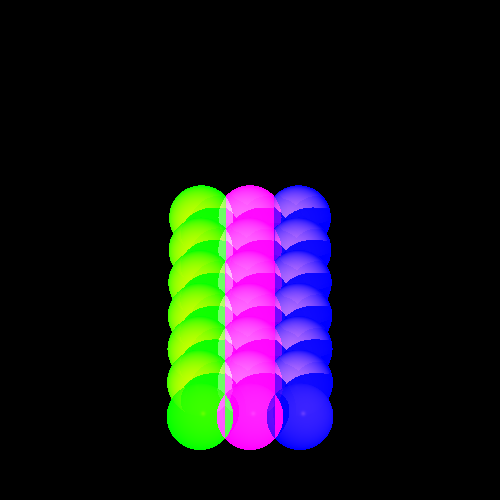
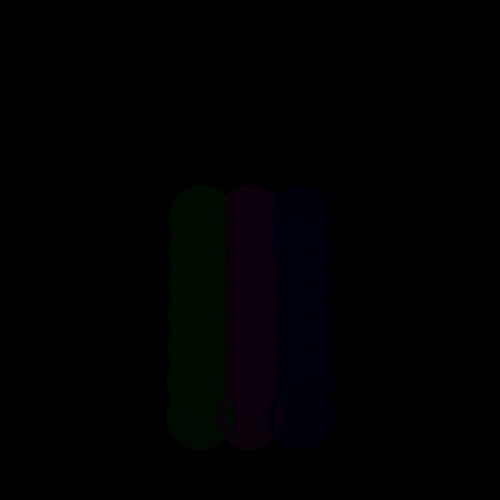
t8

Changed region(s): [[0.33, 0.36, 0.69, 0.9]]

diff --git a/src/renderer/BasicRayTracer.java b/src/renderer/BasicRayTracer.java
@@ -1,6 +1,7 @@
 package renderer;
 
 import elements.LightSource;
+import geometries.Geometry;
 import geometries.Intersectable.GeoPoint;
 import primitives.*;
 import scene.Scene;
@@ -46,28 +47,34 @@ public class BasicRayTracer extends BaseRayTracer {
 
     @Override
     public Color traceRays(List<Ray> rays) {
-        List<GeoPoint> intersections = null;
+
+
+        Color color = new Color(_scene.background);
+
         for (Ray ray : rays) {
-            if (intersections != null)
-                intersections.addAll(_scene.geometries.findGeoIntersections(ray));
-            else {
-                intersections = new LinkedList<>();
-                intersections =_scene.geometries.findGeoIntersections(ray);
-            }
+            color=color.add(traceRay(ray));
         }
-        if (intersections != null) {
-            GeoPoint closestPoint = null;
-            Color color = _scene.background;
-            for (Ray ray : rays) {
-                closestPoint = ray.findClosestGeoPoint(intersections);
-                color = color.add(calcColor(closestPoint, ray))
-                        .add(_scene.ambientLight.getIntensity()
-                                .add(closestPoint.geometry.getEmission()));
-            }
-            return color;
-        }
-        return _scene.background;
+       color= color.reduce(rays.size());
+        return color;
     }
+
+
+//    private Color addColors(List<Ray> rays) {
+//        Color sum = new Color(_scene.background);
+//
+//        for (Ray ray : rays) {
+//            List<GeoPoint> intersections = _scene.geometries.findGeoIntersections(ray);
+//            if (intersections != null) {
+//                GeoPoint closestPoint = ray.findClosestGeoPoint(intersections);
+//                sum = sum.add(calcColor(closestPoint, ray))
+//                        .add(_scene.ambientLight.getIntensity()
+//                                .add(closestPoint.geometry.getEmission()));
+//            }
+//
+//        }
+//        return sum;
+//    }
+
 
     /**
      * call to the recursive func calcColor
@@ -328,9 +335,8 @@ public class BasicRayTracer extends BaseRayTracer {
         return ktr;
     }
 
-//    private Color DepthOfField(double aperture){
-//
-//    }
 
 
-}
+
+    }
+

diff --git a/Tests/elements/DepthOfFieldTests.java b/Tests/elements/DepthOfFieldTests.java
@@ -1,6 +1,8 @@
 package elements;
 
+import geometries.Plane;
 import geometries.Sphere;
+import geometries.Triangle;
 import org.junit.jupiter.api.Test;
 import primitives.Color;
 import primitives.Material;
@@ -29,21 +31,24 @@ public class DepthOfFieldTests {
             scene.geometries.add(
                     new Sphere(2, new Point3D(x, y - 2 * i, z + i * 5)) //
                             .setEmission(new Color(java.awt.Color.MAGENTA)) //
-                            .setMaterial(new Material().setKd(0.4).setKs(0.3).setShininess(100).setKt(0.3)), //
+                            .setMaterial(new Material().setKd(0.4).setKs(0.3).setShininess(100).setKt(1)), //
                     new Sphere(2, new Point3D(x + 3, y - 2 * i, z + i * 5)) //
                             .setEmission(new Color(java.awt.Color.BLUE)) //
-                            .setMaterial(new Material().setKd(0.4).setKs(0.3).setShininess(100).setKt(0.3)), //
+                            .setMaterial(new Material().setKd(0.4).setKs(0.3).setShininess(100).setKt(1)), //
                     new Sphere(2, new Point3D(x - 3, y - 2 * i, z + i * 5)) //
                             .setEmission(new Color(java.awt.Color.GREEN)) //
-                            .setMaterial(new Material().setKd(0.4).setKs(0.3).setShininess(100).setKt(0.3)));
+
+                            .setMaterial(new Material().setKd(0.4).setKs(0.3).setShininess(100).setKt(1)));
 
 
         }
 
-        scene.lights.add(new SpotLight(new Color(1000, 600, 0), new Point3D(-100, 100, -500), new Vector(-1, 1, 2))
-                .setKl(0.0004).setKq(0.0000006));
+        scene.lights.add(
+                new SpotLight(new Color(java.awt.Color.WHITE), new Point3D(-100, 100, -500), new Vector(-1, 10, 2))
+                .setKl(0.0004).setKq(0.0000006)
+        );
 
-        camera.setDepthOfFiled(10, 1, 100);
+        camera.setDepthOfFiled(1, 30, 50);
         Render render = new Render(). //
                 setImageWriter(new ImageWriter("DepthOfField", 500, 500)) //
                 .setCamera(camera) //

diff --git a/Tests/elements/ReflectionRefractionTests.java b/Tests/elements/ReflectionRefractionTests.java
@@ -48,6 +48,8 @@ public class ReflectionRefractionTests {
         render.writeToImage();
     }
 
+
+
     /**
      * Produce a picture of a sphere lighted by a spot light
      */
@@ -119,6 +121,39 @@ public class ReflectionRefractionTests {
                 .setRayTracer(new BasicRayTracer(scene));
 
         render.renderImage();
+        render.writeToImage();
+    }
+
+
+
+
+    @Test
+    public void trianglesTransparentSphere1() {
+        Camera camera = new Camera(new Point3D(0, 0, 1000), new Vector(0, 0, -1), new Vector(0, 1, 0)) //
+                .setViewPlaneSize(200, 200).setDistance(1000);
+                camera.setDepthOfFiled(10, 0.5, 100);
+
+        scene.setAmbientLight(new AmbientLight(new Color(java.awt.Color.WHITE), 0.15));
+
+        scene.geometries.add( //
+                new Triangle(new Point3D(-150, -150, -115), new Point3D(150, -150, -135), new Point3D(75, 75, -150)) //
+                        .setMaterial(new Material().setKd(0.5).setKs(0.5).setShininess(60)), //
+                new Triangle(new Point3D(-150, -150, -115), new Point3D(-70, 70, -140), new Point3D(75, 75, -150)) //
+                        .setMaterial(new Material().setKd(0.5).setKs(0.5).setShininess(60)), //
+                new Sphere(30, new Point3D(60, 50, -50)) //
+                        .setEmission(new Color(java.awt.Color.BLUE)) //
+                        .setMaterial(new Material().setKd(0.2).setKs(0.2).setShininess(30).setKt(0.6)));
+
+        scene.lights.add(new SpotLight(new Color(700, 400, 400), new Point3D(60, 50, 0), new Vector(0, 0, -1)) //
+                .setKl(4E-5).setKq(2E-7));
+
+        ImageWriter imageWriter = new ImageWriter("refractionShadow1", 600, 600);
+        Render render = new Render() //
+                .setImageWriter(imageWriter) //
+                .setCamera(camera) //
+                .setRayTracer(new BasicRayTracer(scene));
+
+        render.renderImage2();
         render.writeToImage();
     }
 

diff --git a/src/elements/Camera.java b/src/elements/Camera.java
@@ -124,7 +124,7 @@ public class Camera {
      * @param i
      * @return the ray
      */
-    public Ray constructRayThroughPixel(int nX, int nY, int j, int i) {
+    public Ray constructRayThroughPixel(int nX, int nY, int j, int i,double screenDistance, double screenWidth, double screenHeight) {
         Point3D Pc = _p0.add(_vTo.scale(_distance));
 
         double Rx = _width / nX;
@@ -164,7 +164,7 @@ public class Camera {
      * @return - a list of rays that contains the beam of rays
      */
     public List<Ray> constructRaysThroughPixel(int nX, int nY, int j, int i, double screenDistance, double screenWidth, double screenHeight) {
-        Ray ray = constructRayThroughPixel(nX, nY, j, i/*, screenDistance, screenWidth, screenHeight*/);
+        Ray ray = constructRayThroughPixel(nX, nY, j, i, screenDistance, screenWidth, screenHeight);
         Point3D pij = ray.getPoint(screenDistance / (_vTo.dotProduct(ray.getDir())));
         Point3D f = ray.getPoint((_focalDistance + screenDistance) / (_vTo.dotProduct(ray.getDir())));//focal point
         List<Ray> result = rayRandomBeam(pij, f, _aperture, _numOfRays, _vRight, _vUp);

diff --git a/Tests/elements/CameraRayIntersectionsIntegrationTests.java b/Tests/elements/CameraRayIntersectionsIntegrationTests.java
@@ -36,7 +36,7 @@ public class CameraRayIntersectionsIntegrationTests {
 
         for (int i = 0; i < x; ++i) {
             for (int j = 0; j < y; ++j) {
-                List<Point3D> list = intersectable.findIntersections(camera.constructRayThroughPixel(x, y, j, i));
+                List<Point3D> list = intersectable.findIntersections(camera.constructRayThroughPixel(x, y, j, i,camera.getDistance(),camera.getWidth(),camera.getFocalDistance()));
                 if (list != null) {
                     points.addAll(list);
                 }

diff --git a/Tests/elements/CameraTest.java b/Tests/elements/CameraTest.java
@@ -30,7 +30,7 @@ public class CameraTest {
 
         // TC02: 4X4 Corner (0,0)
         assertEquals(new Ray(Point3D.PointZERO, new Vector(-3, -3, 10)),
-                camera.setViewPlaneSize(8, 8).constructRayThroughPixel(4, 4, 0, 0),"Bad ray");
+                camera.setViewPlaneSize(8, 8).constructRayThroughPixel(4, 4, 0, 0,camera.getDistance(),camera.getWidth(),camera.getFocalDistance()),"Bad ray");
 
         // TC03: 4X4 Side (0,1)
         assertEquals(new Ray(Point3D.PointZERO, new Vector(-1, -3, 10)),
